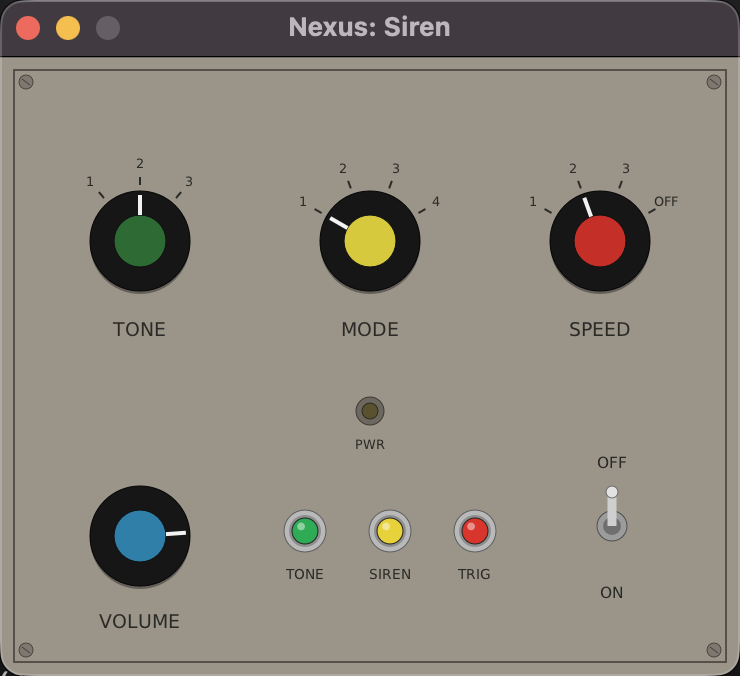
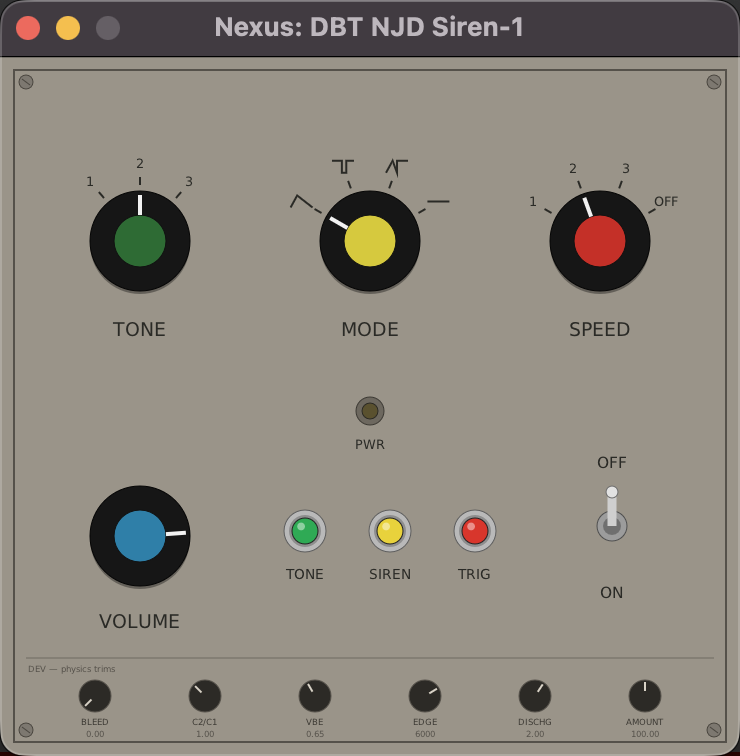
Dev strip: physics trims to hunt the discharge-phasing by ear
The audible phasing on the dying fall is the pulse's |sin(pi*k*duty)|
notches sweeping as duty drifts. Expose the component tolerances that
shape that trajectory: bleed (half-A source leaking into half B's pull-up
through R8/R9 — the 'fixed' side is not truly fixed), capRatio (C1/C2
mismatch), vbe (stall point / dive shape), edge (collector rounding LP).
Defaults reproduce the previous behavior bit-for-bit (test suite green).
Mini knobs row below the faceplate, vertical drag, log-aware.

diff --git a/plugin/SirenUI.cpp b/plugin/SirenUI.cpp
@@ -27,6 +27,35 @@ static constexpr float kBtnToneX = 305.f, kBtnSirenX = 390.f, kBtnTrigX = 475.f;
 static constexpr float kRockX = 612.f,  kRockY = 470.f;
 static constexpr float kKnobR = 50.f;
 
+// Dev strip: physics trims to hunt the real unit's character by ear.
+struct DevKnobDef { Param p; const char* label; };
+static const DevKnobDef kDevKnobs[] = {
+    { Param::bleed,     "BLEED"  },
+    { Param::capRatio,  "C2/C1"  },
+    { Param::vbe,       "VBE"    },
+    { Param::edge,      "EDGE"   },
+    { Param::discharge, "DISCHG" },
+    { Param::amount,    "AMOUNT" },
+};
+static constexpr int kNumDevKnobs = 6;
+static constexpr float kDevY = 640.f;
+static constexpr float kDevR = 16.f;
+static inline float devKnobX(int i) { return 95.f + 110.f * (float) i; }
+
+static float toNorm(const siren::ParamInfo& pi, float v)
+{
+    if (pi.isLogarithmic)
+        return std::log(v / pi.min) / std::log(pi.max / pi.min);
+    return (v - pi.min) / (pi.max - pi.min);
+}
+
+static float fromNorm(const siren::ParamInfo& pi, float n)
+{
+    if (pi.isLogarithmic)
+        return pi.min * std::pow(pi.max / pi.min, n);
+    return pi.min + n * (pi.max - pi.min);
+}
+
 static const char* kPosTone[]  = { "1", "2", "3" };
 static const char* kPosMode[]  = { "1", "2", "3", "4" };
 static const char* kPosSpeed[] = { "1", "2", "3", "OFF" };
@@ -113,6 +142,53 @@ void SirenUI::onNanoDisplay()
     drawPushButton(kBtnTrigX,  kBtnY, values_[idx(Param::trigger)]  > 0.5f, 0xd8362c, "TRIG");
 
     drawRocker(kRockX, kRockY, values_[idx(Param::hold)] > 0.5f);
+
+    // Dev strip separator + trims.
+    beginPath();
+    moveTo(26.f, 602.f);
+    lineTo(kWidth - 26.f, 602.f);
+    strokeColor(rgb(0x6f6a61));
+    stroke();
+    fontSize(10.f);
+    textAlign(ALIGN_LEFT | ALIGN_BASELINE);
+    fillColor(rgb(0x55514a));
+    text(28.f, 616.f, "DEV — physics trims", nullptr);
+    for (int i = 0; i < kNumDevKnobs; ++i)
+        drawDevKnob(devKnobX(i), kDevY, idx(kDevKnobs[i].p), kDevKnobs[i].label);
+}
+
+void SirenUI::drawDevKnob(float cx, float cy, int paramIdx, const char* label)
+{
+    const auto& pi = paramInfo(static_cast<Param>(paramIdx));
+    const float n = std::clamp(toNorm(pi, values_[paramIdx]), 0.f, 1.f);
+
+    beginPath();
+    circle(cx, cy, kDevR);
+    fillColor(rgb(0x2c2a26));
+    fill();
+    strokeColor(rgb(0x55514a));
+    stroke();
+
+    const float a = deg2rad(-225.f + n * 270.f);
+    beginPath();
+    moveTo(cx + std::cos(a) * 5.f, cy + std::sin(a) * 5.f);
+    lineTo(cx + std::cos(a) * (kDevR - 2.f), cy + std::sin(a) * (kDevR - 2.f));
+    strokeColor(rgb(0xd8d2c6));
+    strokeWidth(2.f);
+    stroke();
+    strokeWidth(1.f);
+
+    char buf[32];
+    if (pi.max >= 1000.f)
+        std::snprintf(buf, sizeof(buf), "%.0f", (double) values_[paramIdx]);
+    else
+        std::snprintf(buf, sizeof(buf), "%.2f", (double) values_[paramIdx]);
+    fontSize(10.f);
+    textAlign(ALIGN_CENTER | ALIGN_BASELINE);
+    fillColor(rgb(0x3c3933));
+    text(cx, cy + kDevR + 13.f, label, nullptr);
+    fillColor(rgb(0x55514a));
+    text(cx, cy + kDevR + 25.f, buf, nullptr);
 }
 
 void SirenUI::drawRotarySwitch(float cx, float cy, int pos, int numPos,
@@ -376,6 +452,9 @@ int SirenUI::hitTest(float mx, float my) const
     if (inCircle(kBtnTrigX, kBtnY, 24.f))         return idx(Param::trigger);
     if (mx >= kRockX - 28.f && mx <= kRockX + 28.f
         && my >= kRockY - 48.f && my <= kRockY + 48.f) return idx(Param::hold);
+    for (int i = 0; i < kNumDevKnobs; ++i)
+        if (inCircle(devKnobX(i), kDevY, kDevR + 6.f))
+            return idx(kDevKnobs[i].p);
     return -1;
 }
 
@@ -398,12 +477,13 @@ bool SirenUI::onMouse(const MouseEvent& ev)
             dragStartPos_ = (int) values_[i];
             return true;
         }
-        if (i == idx(Param::volume))
+        const auto& pi = paramInfo(static_cast<Param>(i));
+        if (!pi.isBool && !pi.isInteger)
         {
-            const auto& pi = paramInfo(Param::volume);
-            draggingVol_ = true;
+            // Continuous knob (volume or a dev trim): vertical drag.
+            draggingCont_ = i;
             dragStartY_ = ev.pos.getY();
-            dragStartN_ = std::clamp((values_[i] - pi.min) / (pi.max - pi.min), 0.f, 1.f);
+            dragStartN_ = std::clamp(toNorm(pi, values_[i]), 0.f, 1.f);
             return true;
         }
         if (i == idx(Param::hold))
@@ -423,7 +503,7 @@ bool SirenUI::onMouse(const MouseEvent& ev)
         return true;
     }
 
-    draggingVol_ = false;
+    draggingCont_ = -1;
     draggingSel_ = -1;
     if (pressedBtn_ >= 0)
     {
@@ -452,15 +532,15 @@ bool SirenUI::onMotion(const MotionEvent& ev)
         return true;
     }
 
-    if (!draggingVol_)
+    if (draggingCont_ < 0)
         return false;
 
-    const auto& pi = paramInfo(Param::volume);
+    const auto& pi = paramInfo(static_cast<Param>(draggingCont_));
     const float dy = dragStartY_ - ev.pos.getY();
     const float n = std::clamp(dragStartN_ + dy / 200.f, 0.f, 1.f);
-    const float v = pi.min + n * (pi.max - pi.min);
-    values_[idx(Param::volume)] = v;
-    setParameterValue((uint32_t) idx(Param::volume), v);
+    const float v = fromNorm(pi, n);
+    values_[draggingCont_] = v;
+    setParameterValue((uint32_t) draggingCont_, v);
     repaint();
     return true;
 }

diff --git a/dsp/SirenEngine.hpp b/dsp/SirenEngine.hpp
@@ -39,6 +39,14 @@ public:
         float discharge_s  = 2.0f;   // R23/R24*C5: manual / SPEED-OFF fall
         float amount_pct   = 100.0f; // mod scale about 4.5 V (not in circuit)
         float drive_dB     = 4.0f;   // post drive (not in circuit)
+        // Dev/physics trims: component tolerances of the real unit.
+        float bleed_pct    = 0.0f;   // half-A source leaking into half B's
+                                     // pull-up (R8/R9 vs ladder): duty drifts
+                                     // through more notch positions
+        float capRatio     = 1.0f;   // C2/C1 mismatch: scales half-B period
+        float vbe_V        = 0.65f;  // transistor threshold: stall point and
+                                     // the shape of the dying dive
+        float edgeHz       = 6000.0f;// collector edge rounding (output LP)
     };
 
     void prepare(double sampleRate, int /*maxBlockSize*/)
@@ -120,6 +128,9 @@ public:
         const float volTarget = dB2lin(p_.volume_dB);
         const float pre = dB2lin(p_.drive_dB);
         const float driveNorm = 1.0f / std::tanh(std::max(0.1f, pre));
+        const float bleed = p_.bleed_pct / 100.0f;
+        lpCoef_ = 1.0f - std::exp(-6.2831853f
+                                  * std::clamp(p_.edgeHz, 200.0f, 0.45f * fs_) * dt_);
 
         for (int i = 0; i < numFrames; ++i)
         {
@@ -146,9 +157,19 @@ public:
             ramp_ += rampCoef_ * ((effPower ? 1.0f : 0.0f) - ramp_);
 
             // ---- main oscillator ----------------------------------------
-            float Vm = srcVoltage(route[halfA_ ? 0 : 1]);
+            float Vm;
+            if (halfA_)
+                Vm = srcVoltage(route[0]);
+            else
+            {
+                // R8/R9 leakage: half A's source bleeds into half B's pull-up
+                const float vB = srcVoltage(route[1]);
+                Vm = vB + bleed * (srcVoltage(route[0]) - vB);
+            }
             Vm = 4.5f + amountS_ * (Vm - 4.5f);
-            const float th = tHalf(Vm, Rosc);
+            float th = tHalf(Vm, Rosc);
+            if (!halfA_ && th > 0.0f)
+                th *= p_.capRatio;          // C1/C2 tolerance mismatch
             const float inc = th > 0.0f ? dt_ / th : 0.0f;
 
             float prevCorr = 0.0f, nowCorr = 0.0f;
@@ -214,9 +235,10 @@ private:
     // when the transistor can never switch: the oscillator stalls (silence).
     float tHalf(float Vm, float R) const
     {
-        if (Vm < kVbe + 0.02f)
+        const float vbe = p_.vbe_V;
+        if (Vm < vbe + 0.02f)
             return -1.0f;
-        return R * kCosc * std::log((Vm + kVcc - 1.3f) / (Vm - kVbe));
+        return R * kCosc * std::log((Vm + kVcc - 2.0f * vbe) / (Vm - vbe));
     }
 
     static float dB2lin(float dB) { return std::exp2(dB * 0.166096404f); }

diff --git a/plugin/ParameterMetadata.hpp b/plugin/ParameterMetadata.hpp
@@ -18,12 +18,17 @@ enum class Param : uint32_t {
     discharge,   // R23/R24*C5 fall time constant
     amount,      // modulation scale about 4.5 V (not in circuit)
     drive,       // post drive (not in circuit)
+    // Dev/physics trims (component tolerances of the real unit)
+    bleed,       // half-A source leaking into half B's pull-up
+    capRatio,    // C2/C1 mismatch
+    vbe,         // transistor threshold (stall point / dive shape)
+    edge,        // collector edge rounding (output LP)
     // Output params
     ledLevel,    // T5/LED1: follows C5 (the sweep), drives the panel LED
 };
 
 constexpr int kNumPanelParams   = 8;
-constexpr int kNumControlParams = 12;
+constexpr int kNumControlParams = 16;
 constexpr int kNumOutputParams  = 1;
 
 struct ParamInfo {
@@ -70,7 +75,15 @@ static constexpr ParamInfo kParams[kNumControlParams + kNumOutputParams] = {
     { "amount",    "Mod Amount", 0.0f, 200.0f, 100.0f, false, false, false, false, 0, nullptr },
     // 11 drive
     { "drive",     "Drive",      0.0f,  12.0f,   4.0f, false, false, false, false, 0, nullptr },
-    // 12 ledLevel (output)
+    // 12 bleed
+    { "bleed",     "Mod Bleed",  0.0f, 100.0f,   0.0f, false, false, false, false, 0, nullptr },
+    // 13 capRatio
+    { "capRatio",  "Cap Ratio",  0.5f,   2.0f,   1.0f, false, false, false, false, 0, nullptr },
+    // 14 vbe
+    { "vbe",       "Vbe",        0.3f,   1.2f,  0.65f, false, false, false, false, 0, nullptr },
+    // 15 edge
+    { "edge",      "Edge LP",  500.0f, 16000.0f, 6000.0f, false, false, false, true, 0, nullptr },
+    // 16 ledLevel (output)
     { "ledLevel",  "LED Level",  0.0f,   1.0f,   0.0f, false, false, true,  false, 0, nullptr },
 };
 

diff --git a/plugin/SirenUI.hpp b/plugin/SirenUI.hpp
@@ -19,13 +19,14 @@ protected:
 
 private:
     static constexpr float kWidth  = 740.f;
-    static constexpr float kHeight = 620.f;
+    static constexpr float kHeight = 700.f;
 
     void drawRotarySwitch(float cx, float cy, int pos, int numPos,
                           const char* const* labels, uint capColor, const char* name,
                           bool waveGlyphs = false);
     void drawWaveGlyph(float cx, float cy, int mode);
     void drawVolumeKnob(float cx, float cy, float norm);
+    void drawDevKnob(float cx, float cy, int paramIdx, const char* label);
     void drawLed(float cx, float cy, float level);
     void drawPushButton(float cx, float cy, bool pressed, uint color, const char* name);
     void drawRocker(float cx, float cy, bool on);
@@ -35,7 +36,7 @@ private:
     float values_[siren::kNumControlParams];
     float level_ = 0.f;
     int   pressedBtn_ = -1;   // param index of the held pushbutton
-    bool  draggingVol_ = false;
+    int   draggingCont_ = -1; // param index of the dragged continuous knob
     int   draggingSel_ = -1;  // param index of the dragged rotary switch
     int   dragStartPos_ = 0;
     float dragStartY_ = 0.f;

diff --git a/plugin/SirenPlugin.cpp b/plugin/SirenPlugin.cpp
@@ -92,6 +92,10 @@ void SirenPlugin::run(const float** inputs, float** outputs, uint32_t frames)
             .discharge_s  = params_[idx(Param::discharge)],
             .amount_pct   = params_[idx(Param::amount)],
             .drive_dB     = params_[idx(Param::drive)],
+            .bleed_pct    = params_[idx(Param::bleed)],
+            .capRatio     = params_[idx(Param::capRatio)],
+            .vbe_V        = params_[idx(Param::vbe)],
+            .edgeHz       = params_[idx(Param::edge)],
         };
         engine_.setParameters(p);
         requiresUpdate_ = false;

diff --git a/plugin/DistrhoPluginInfo.h b/plugin/DistrhoPluginInfo.h
@@ -17,4 +17,4 @@
 
 #define DISTRHO_UI_USE_NANOVG     1
 #define DISTRHO_UI_DEFAULT_WIDTH  740
-#define DISTRHO_UI_DEFAULT_HEIGHT 620
+#define DISTRHO_UI_DEFAULT_HEIGHT 700